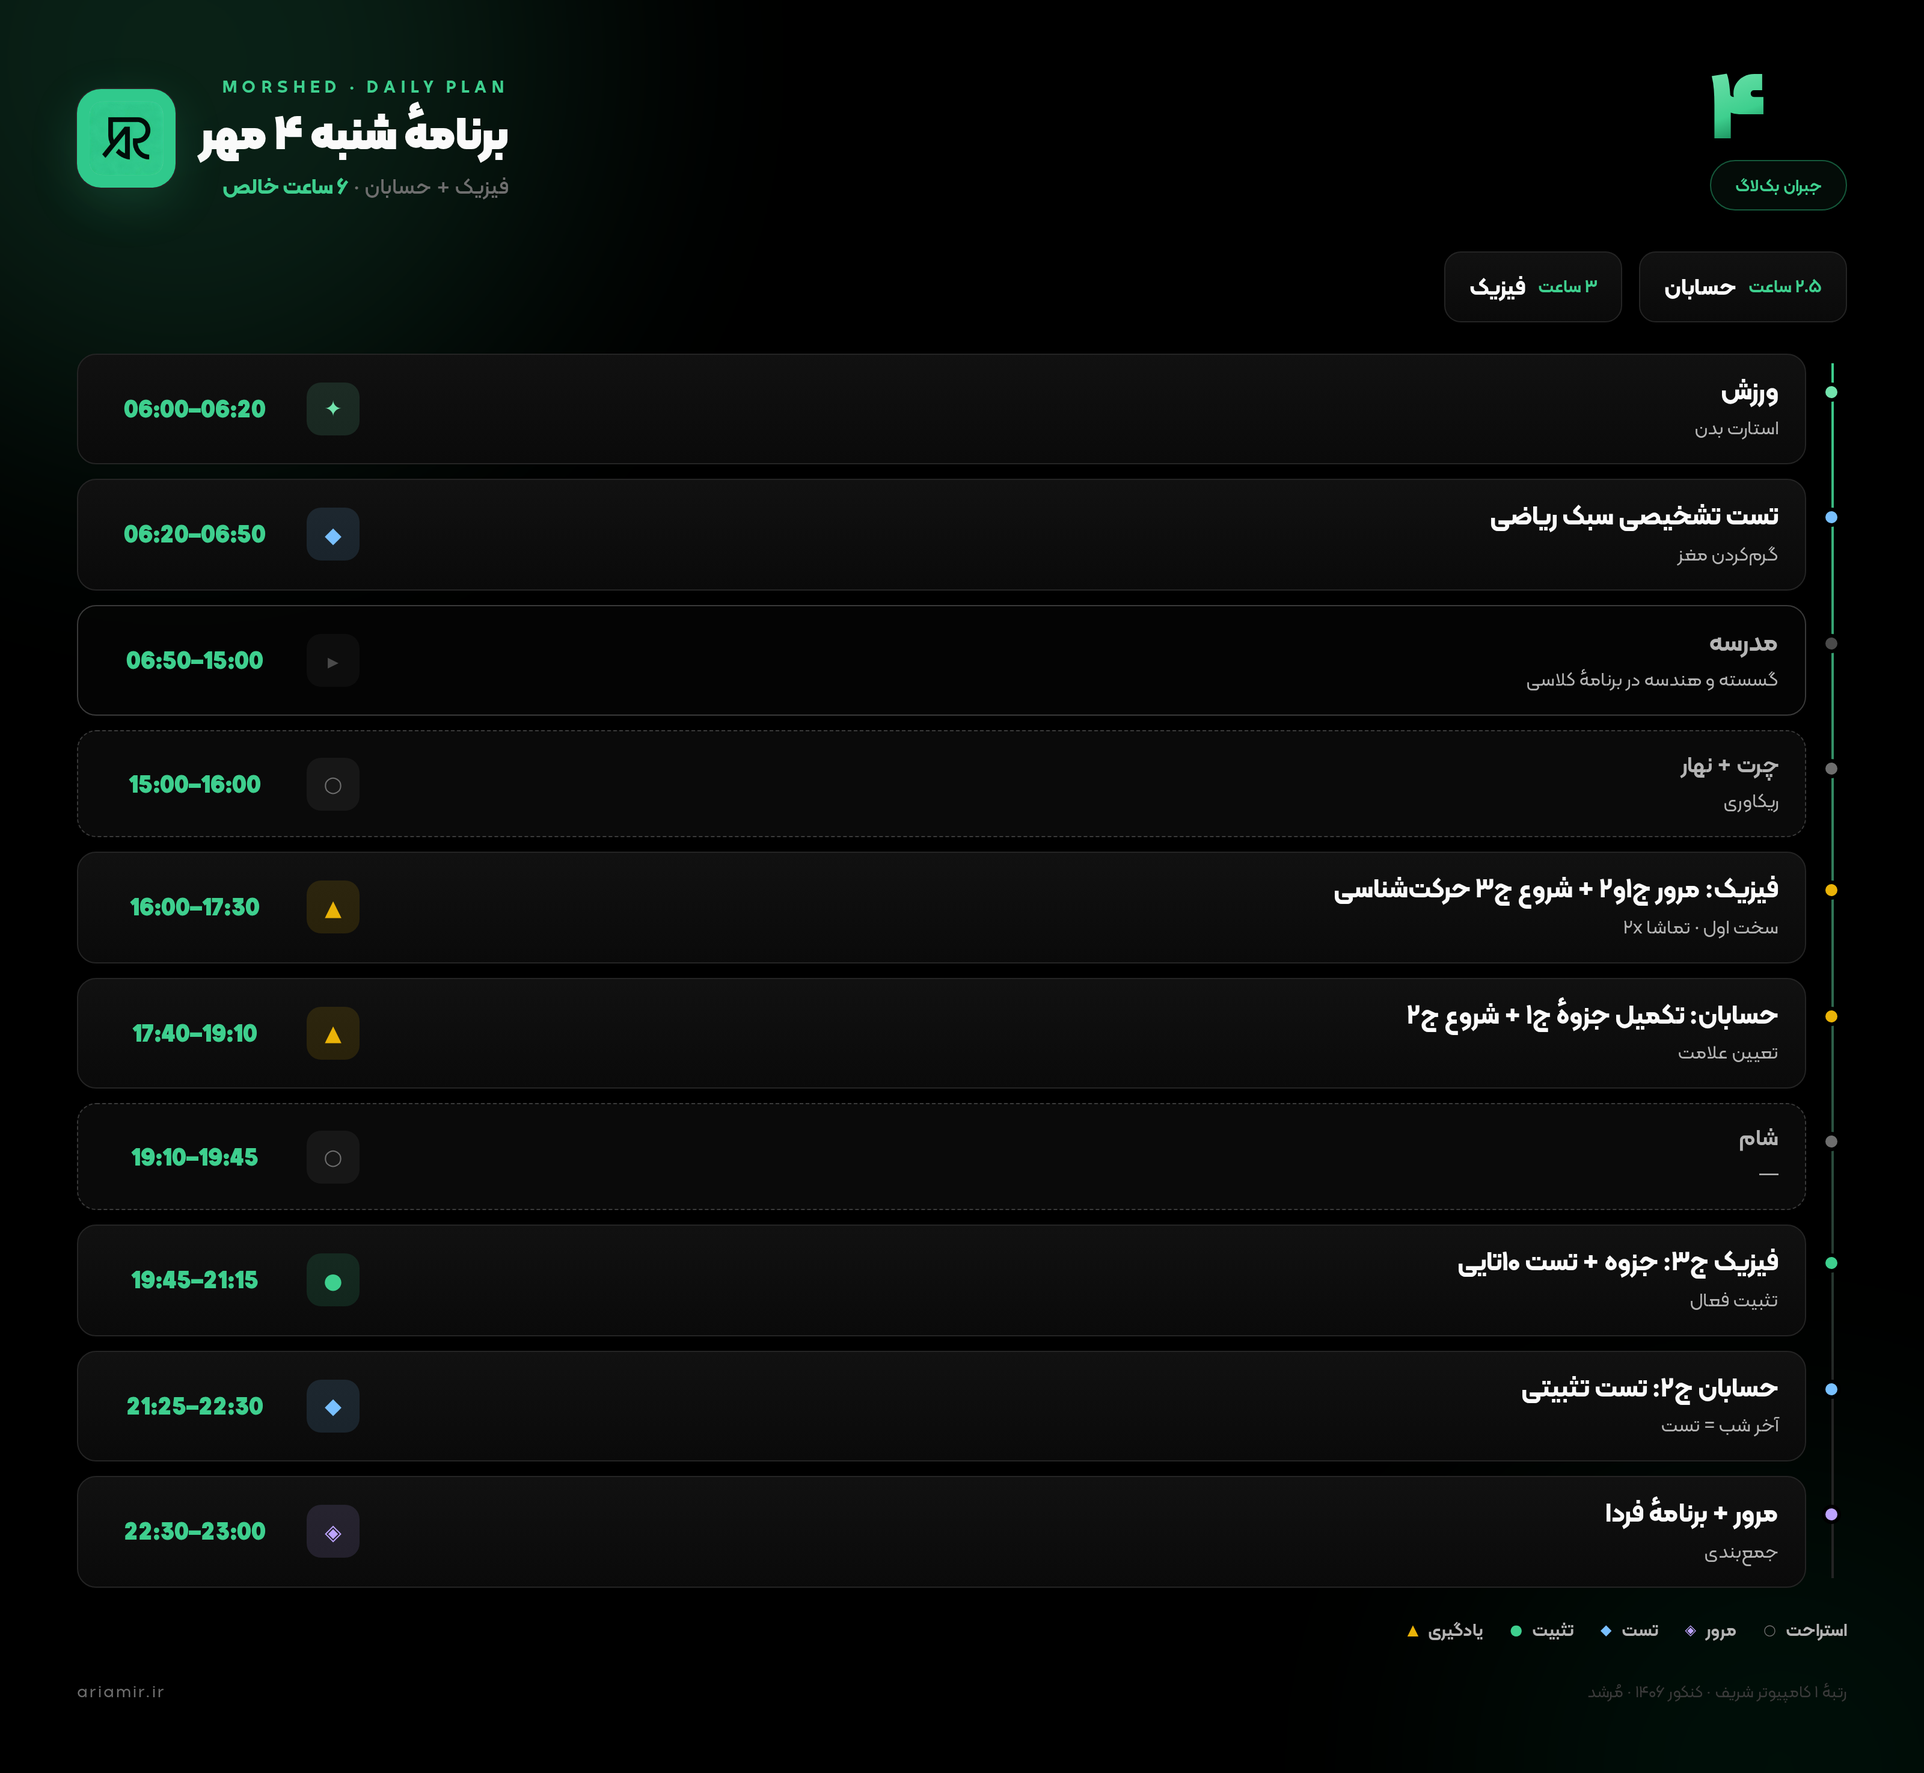
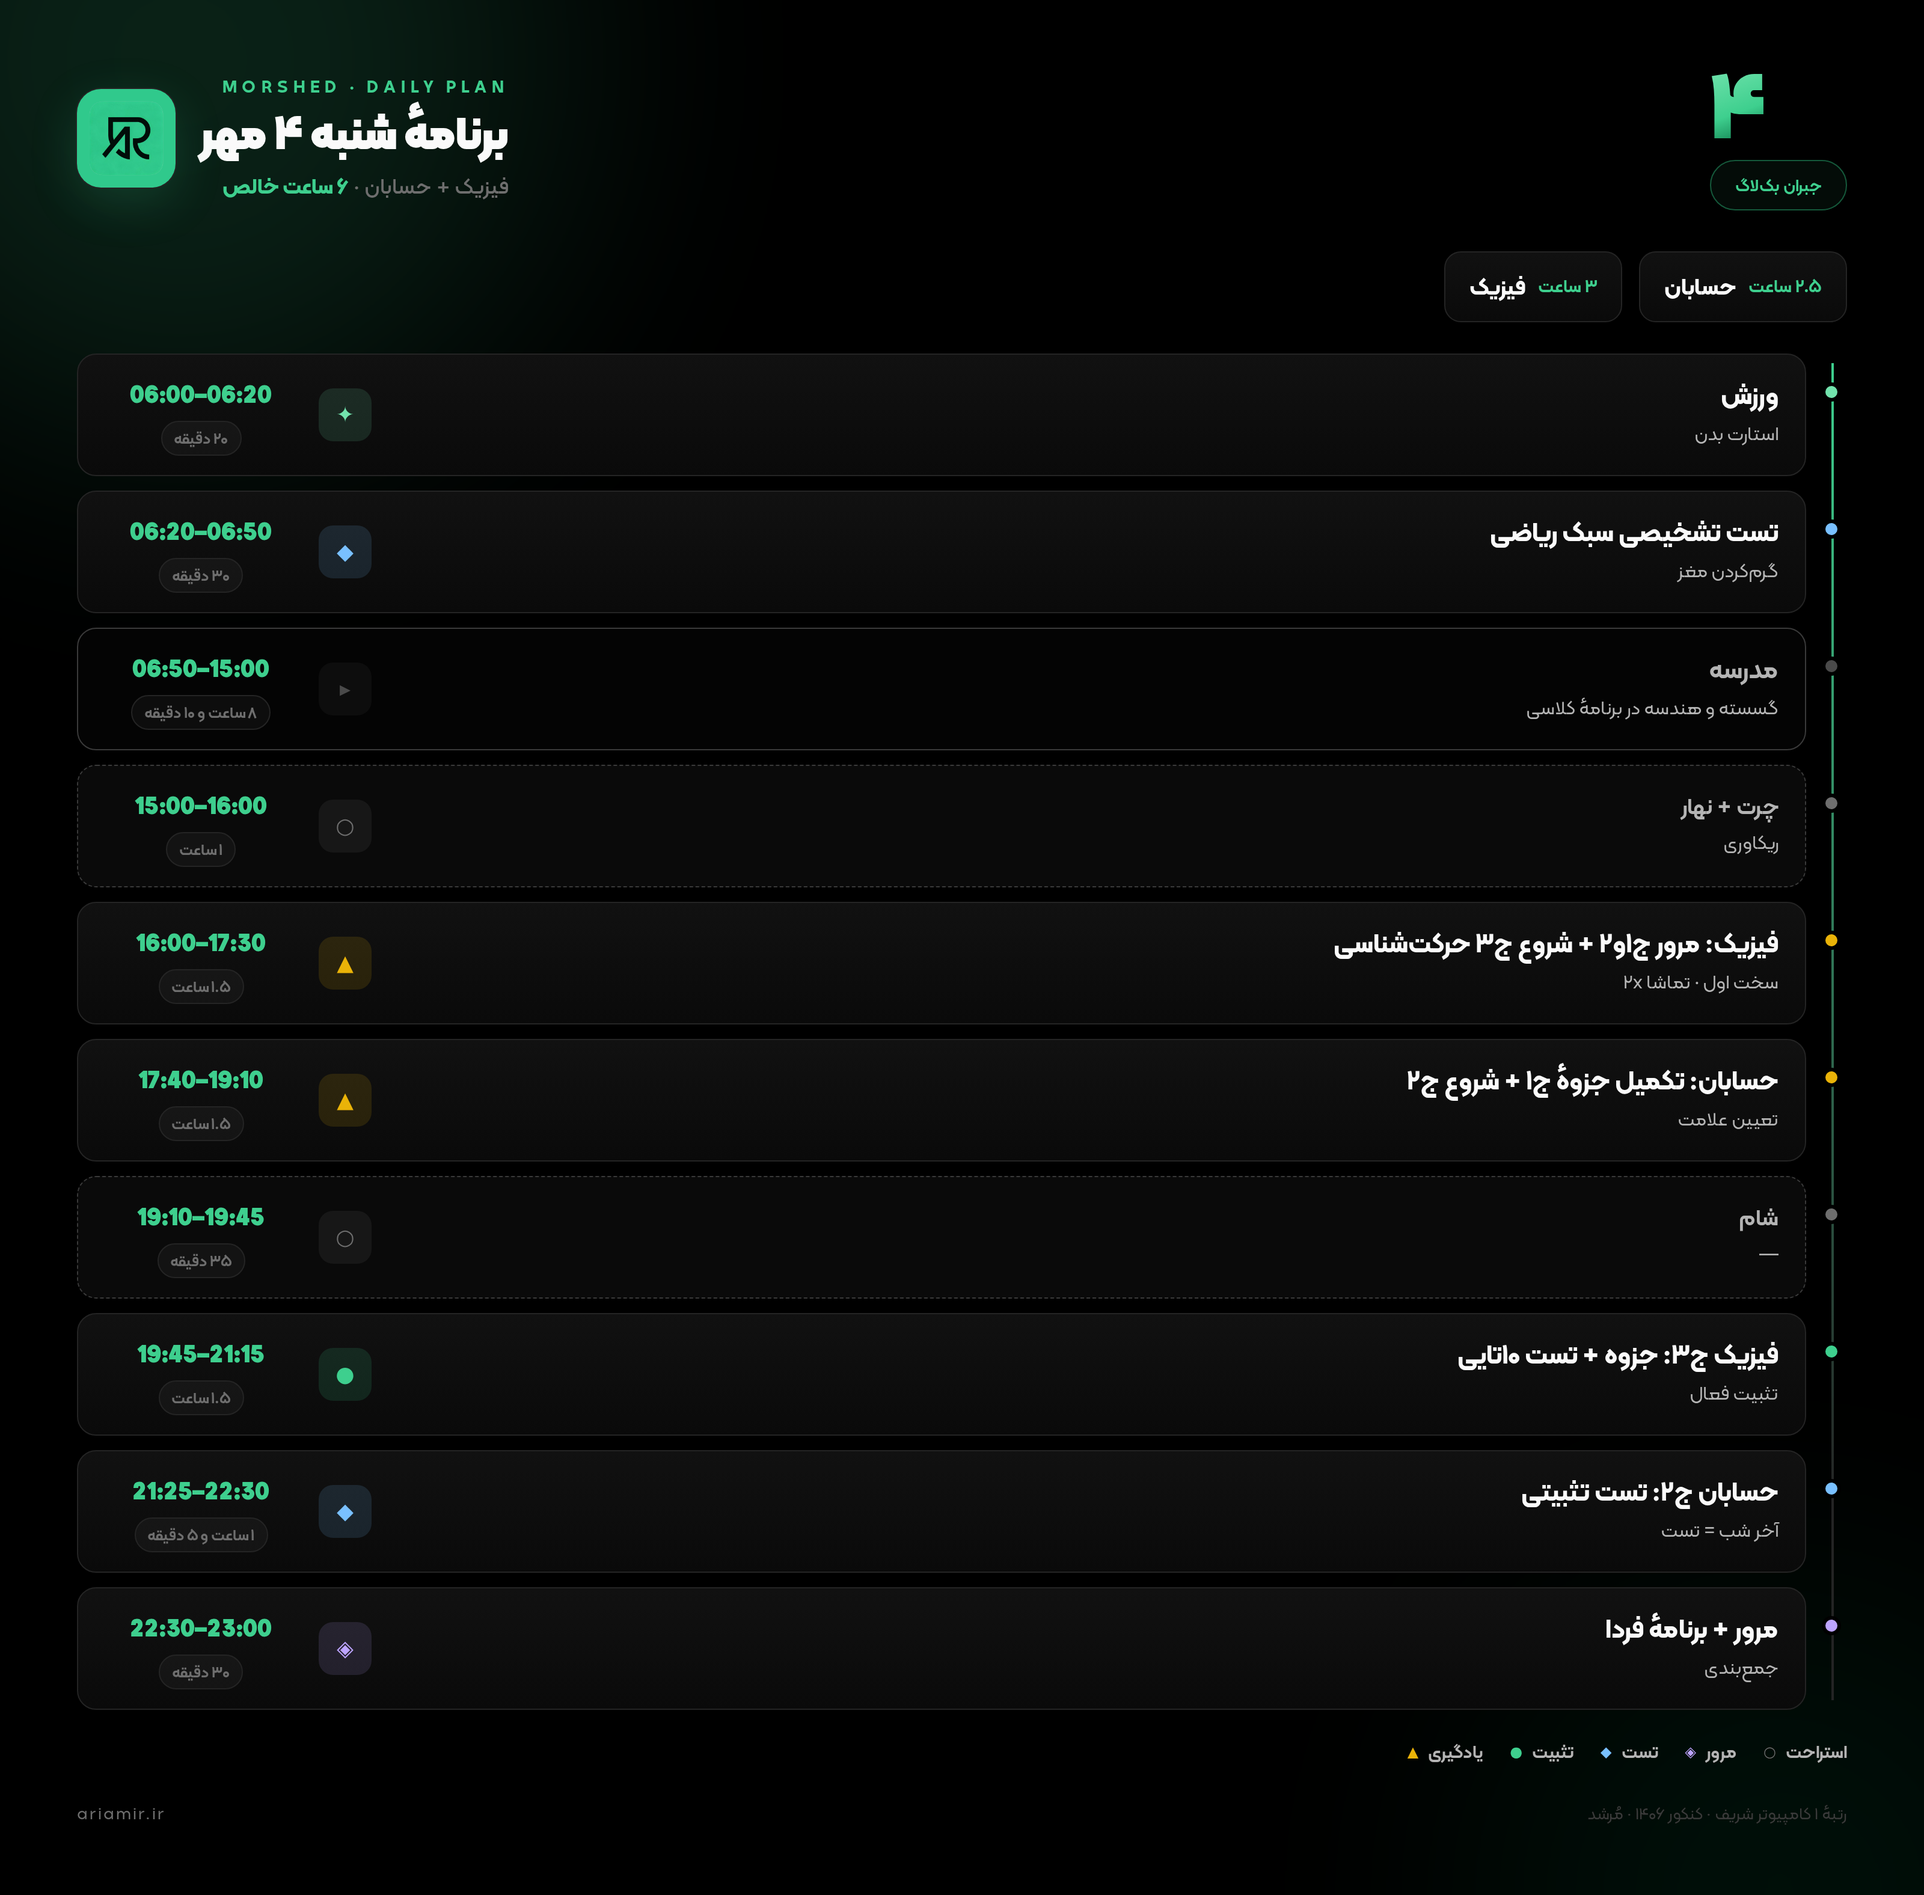
Daily cards: per-block duration badges (auto-computed); resent msg 19-25

diff --git a/scripts/make_cards_v2.py b/scripts/make_cards_v2.py
@@ -192,6 +192,40 @@ def make_subjects(title, sub, rows, total_line, out_path):
     return _render(_shell(inner, css), out_path, height=1080)
 
 # ============ کارت ۳-۹: برنامهٔ روزانه ============
+def _dur_label(timestr):
+    """از «06:00–06:20» یا «06:50–15:00» مدت را حساب و به فارسی برمیگرداند."""
+    import re
+    fa="۰۱۲۳۴۵۶۷۸۹"
+    def to_fa(s): return ''.join(fa[int(c)] if c.isdigit() else c for c in s)
+    m=re.findall(r'(\d{1,2}):(\d{2})', timestr)
+    if len(m)<2: return ""
+    (h1,m1),(h2,m2)=m[0],m[1]
+    mins=(int(h2)*60+int(m2))-(int(h1)*60+int(m1))
+    if mins<=0: return ""
+    if mins<60: return to_fa(str(mins))+" دقیقه"
+    h=mins//60; mm=mins%60
+    if mm==0: return to_fa(str(h))+" ساعت"
+    if mm==30: return to_fa(f"{h}.۵").replace('.','.')+" ساعت" if False else to_fa(str(h))+".۵ ساعت"
+    return to_fa(str(h))+" ساعت و "+to_fa(str(mm))+" دقیقه"
+
+def _sum_study_hours(blocks):
+    """جمع مدت بلوکهای مطالعه (نه استراحت/مدرسه/ورزش) بهصورت برچسب فارسی."""
+    import re
+    fa="۰۱۲۳۴۵۶۷۸۹"
+    total=0
+    for time,kind,title,note in blocks:
+        if kind in ("rest","school","sport"): continue
+        m=re.findall(r'(\d{1,2}):(\d{2})', time)
+        if len(m)<2: continue
+        (h1,m1),(h2,m2)=m[0],m[1]
+        d=(int(h2)*60+int(m2))-(int(h1)*60+int(m1))
+        if d>0: total+=d
+    h=total//60; mm=total%60
+    def to_fa(s): return ''.join(fa[int(c)] if c.isdigit() else c for c in s)
+    if mm==0: return to_fa(str(h))+" ساعت"
+    if mm==30: return to_fa(str(h))+".۵ ساعت"
+    return to_fa(str(h))+" ساعت و "+to_fa(str(mm))+" دقیقه"
+
 def make_day(daynum, dayname, date_full, tag, focus, hours_total, blocks, out_path):
     """blocks: list of (time, kind, title, note). kind in KIND keys."""
     css=f"""
@@ -210,8 +244,10 @@ def make_day(daynum, dayname, date_full, tag, focus, hours_total, blocks, out_pa
   border-radius:16px;padding:16px 22px;display:flex;align-items:center;flex-direction:row-reverse;gap:18px}}
 .card.rest{{background:{C['surface']};border-style:dashed;border-color:{C['faint']}}}
 .card.school{{background:rgba(255,255,255,.015);border-color:{C['faint']}}}
-.ctime{{width:150px;flex:none;text-align:center;direction:ltr;
-  font-size:20px;font-weight:800;color:{C['green']}}}
+.ctime{{width:160px;flex:none;display:flex;flex-direction:column;align-items:center;gap:5px;direction:ltr}}
+.ctime .clock{{font-size:20px;font-weight:800;color:{C['green']}}}
+.ctime .dur{{font-size:13px;font-weight:600;color:{C['muted']};background:rgba(255,255,255,.04);
+  border:1px solid {C['border']};border-radius:999px;padding:2px 10px;direction:rtl}}
 .cbadge{{width:44px;height:44px;flex:none;border-radius:12px;display:flex;align-items:center;justify-content:center;font-size:18px}}
 .cbody{{flex:1;text-align:right}}
 .ctitle{{font-size:22px;font-weight:700;color:{C['fg']};line-height:1.3}}
@@ -232,8 +268,10 @@ def make_day(daynum, dayname, date_full, tag, focus, hours_total, blocks, out_pa
         elif kind=="school": cls="card school"
         badge=f'<div class="cbadge" style="background:{col}22;color:{col}">{ic}</div>'
         note_html=f'<div class="cnote">{note}</div>' if note else ''
+        dur=_dur_label(time)
+        dur_html=f'<span class="dur">{dur}</span>' if dur else ''
         blk+=f"""<div class="blk"><div class="node" style="background:{col}"></div>
-          <div class="{cls}"><div class="ctime">{time}</div>{badge}
+          <div class="{cls}"><div class="ctime"><span class="clock">{time}</span>{dur_html}</div>{badge}
             <div class="cbody"><div class="ctitle">{title}</div>{note_html}</div></div></div>"""
     leg="".join(f'<span class="lg"><span style="color:{KIND[k][0]};font-size:12px">{KIND[k][1]}</span>{lbl}</span>'
                 for k,lbl in [("learn","یادگیری"),("fix","تثبیت"),("test","تست"),("review","مرور"),("rest","استراحت")])

diff --git a/memory/progress_log.md b/memory/progress_log.md
@@ -82,3 +82,7 @@
 - رفع باگ: از #page اسکرینشات گرفته میشود نه body (glowها سرریز میکردند). نصب fonts-noto-color-emoji برای ایموجیها.
 - ۹ کارت به کانال MORSHED ارسال شد به ترتیب: msg 10=overview, 11=subjects, 12=شنبه, 13=یکشنبه, 14=دوشنبه, 15=سهشنبه, 16=چهارشنبه, 17=پنجشنبه, 18=جمعه.
 - ⚠ ENV: علاوه بر chromium/playwright/jdatetime، این هم لازم است: sudo apt-get install fonts-noto-color-emoji (برای ایموجی کارتها).
+
+### ۱ مهر ۱۴۰۵ — افزودن مدتزمان هر بلوک به کارتهای روزانه
+- به درخواست کاربر: زیر ساعت هر بلوک، مدتزمانش (بَج) اضافه شد؛ خودکار از بازهٔ ساعت محاسبه میشود (تابع _dur_label در make_cards_v2.py). هیچ بلوکی بدون مدت نیست.
+- ۷ کارت روزانهٔ بهروز دوباره به کانال ارسال شد: msg 19=شنبه, 20=یکشنبه, 21=دوشنبه, 22=سهشنبه, 23=چهارشنبه, 24=پنجشنبه, 25=جمعه. (overview msg10 + subjects msg11 بدون تغییر معتبرند.)
